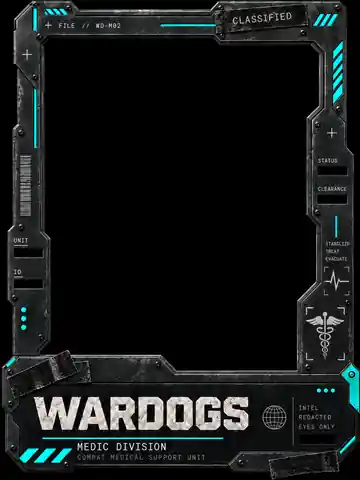
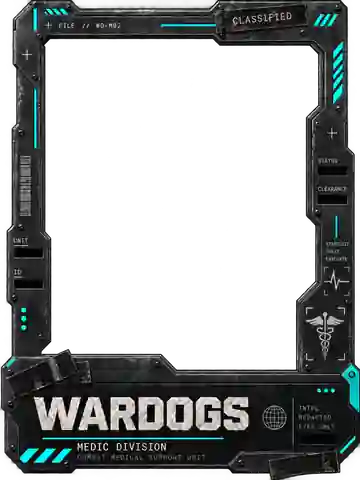
Fix Medic WARDOGS portrait aperture and frame

diff --git a/index.html b/index.html
@@ -26,10 +26,10 @@ body[data-mws-mode="admin"] .sidebar-build-version-v53{display:block}
 .sidebar-build-version-v53 + .sidebar-save-v572{margin-top:4px!important}
 </style>
 <link rel="stylesheet" href="assets/mawang-premium-v1621.css?v=1.6.21-premium2-phase154">
-<link rel="stylesheet" href="assets/wardogs-v1.css?v=1.0.0-phase125-mobile129-portrait138-gallery136-aperture152">
+<link rel="stylesheet" href="assets/wardogs-v1.css?v=1.0.0-phase125-mobile129-portrait138-gallery136-aperture152-medicaperture165">
 <link rel="stylesheet" href="assets/wardogs-gallery-phase142.css?v=1.0.0-phase151">
 <link rel="stylesheet" href="assets/wardogs-intro-v1.css?v=1.0.0-phase118">
-<link rel="stylesheet" href="assets/wardogs-manager-v1.css?v=1.0.0-phase127-mobile129-frame140-frame144-aperture152">
+<link rel="stylesheet" href="assets/wardogs-manager-v1.css?v=1.0.0-phase127-mobile129-frame140-frame144-aperture152-medicaperture165">
 </head>
 <body data-theme="neon" class="mws-gated mws-premium" data-build-version="MWS V 1.4.0">
 <div id="mwsAccessGate" aria-modal="true" role="dialog">
@@ -1659,8 +1659,8 @@ body[data-mws-mode="admin"] .sidebar-build-version-v53{display:block}
 <script src="assets/app-core.js?v=1.3.0-search115-wardogs116-backup126-datetime149"></script>
 <script src="assets/wardogs-data-v1.js?v=1.0.0-phase120-webview130-zoom138"></script>
 <script src="assets/wardogs-media-v1.js?v=1.0.0-phase121-backup126-webview130"></script>
-<script src="assets/wardogs-manager-v1.js?v=1.0.0-phase127-touchfix-webview130-frame140-frame144-frames150-aperture152-assault157-medic158-recon163-support164-driver161-pilot162"></script>
-<script src="assets/wardogs-v1.js?v=1.0.0-phase125-portrait138-soopid141-frames150-aperture152-assault157-medic158-recon163-support164-driver161-pilot162"></script>
+<script src="assets/wardogs-manager-v1.js?v=1.0.0-phase127-touchfix-webview130-frame140-frame144-frames150-aperture152-assault157-medic165-recon163-support164-driver161-pilot162"></script>
+<script src="assets/wardogs-v1.js?v=1.0.0-phase125-portrait138-soopid141-frames150-aperture152-assault157-medic165-recon163-support164-driver161-pilot162"></script>
 <script src="assets/wardogs-intro-v1.js?v=1.0.0-phase118"></script>
 
 

diff --git a/assets/wardogs-manager-v1.js b/assets/wardogs-manager-v1.js
@@ -16,7 +16,7 @@ const CLASS_RANK=new Map(CLASS_META.map((item,index)=>[item.id,index]));
 
 const CLASS_FRAMES=Object.freeze({
   assault:'assets/wardogs-frames/assault.webp?v=phase157',
-  medic:'assets/wardogs-frames/medic.webp?v=phase158',
+  medic:'assets/wardogs-frames/medic.webp?v=phase165',
   recon:'assets/wardogs-frames/recon.webp?v=phase163',
   support:'assets/wardogs-frames/support.webp?v=phase164',
   driver:'assets/wardogs-frames/driver.webp?v=phase161',
@@ -118,8 +118,10 @@ function currentEditorClass(){
 }
 function renderPortraitFrame(){
   const layer=modal?.querySelector('[data-wardogs-manager-frame]');
+  const drop=modal?.querySelector('[data-wardogs-manager-drop]');
   if(!layer)return;
   const classId=currentEditorClass();
+  if(drop)drop.dataset.wardogsClass=classId;
   const frameSrc=CLASS_FRAMES[classId]||CLASS_FRAMES.assault;
   layer.dataset.wardogsManagerFrame=classId;
   if(layer.getAttribute('src')!==frameSrc)layer.setAttribute('src',frameSrc);

diff --git a/assets/wardogs-v1.js b/assets/wardogs-v1.js
@@ -15,7 +15,7 @@ const CLASSES=Object.freeze([
 
 const CLASS_FRAMES=Object.freeze({
   assault:'assets/wardogs-frames/assault.webp?v=phase157',
-  medic:'assets/wardogs-frames/medic.webp?v=phase158',
+  medic:'assets/wardogs-frames/medic.webp?v=phase165',
   recon:'assets/wardogs-frames/recon.webp?v=phase163',
   support:'assets/wardogs-frames/support.webp?v=phase164',
   driver:'assets/wardogs-frames/driver.webp?v=phase161',
@@ -361,6 +361,7 @@ async function loadDetailImage(card,token){
 
   const spec=portraitSpec(card);
   frame.dataset.wardogsPortraitSource=spec.source;
+  frame.dataset.wardogsClass=String(card?.classId||'');
   frameLayer.dataset.wardogsClassFrame=String(card?.classId||'');
   applyClassFrame(frameLayer,card?.classId);
 

diff --git a/assets/wardogs-manager-v1.css b/assets/wardogs-manager-v1.css
@@ -300,3 +300,10 @@ body.mws-wardogs-touch-ordering-v127 .wardogs-manager-list-pane-v122{
   clip-path:inset(12% 13% 24% 16%);
 }
 .wardogs-manager-portrait-clip-v152>.wardogs-manager-portrait-image-v137{z-index:0}
+
+
+/* Phase 165: Medic frame-specific portrait aperture. */
+.wardogs-manager-drop-v122[data-wardogs-class="medic"] .wardogs-manager-portrait-clip-v152{
+  -webkit-clip-path:inset(8.2% 11.7% 23% 11.8%);
+  clip-path:inset(8.2% 11.7% 23% 11.8%);
+}

diff --git a/assets/wardogs-v1.css b/assets/wardogs-v1.css
@@ -484,3 +484,10 @@ body.mws-wardogs-detail-open-v125{overflow:hidden!important}
   clip-path:inset(12% 13% 24% 16%);
 }
 .wardogs-portrait-clip-v152>.wardogs-portrait-image-v134{z-index:0}
+
+
+/* Phase 165: Medic frame-specific portrait aperture. */
+.wardogs-portrait-stage-v134[data-wardogs-class="medic"] .wardogs-portrait-clip-v152{
+  -webkit-clip-path:inset(8.2% 11.7% 23% 11.8%);
+  clip-path:inset(8.2% 11.7% 23% 11.8%);
+}
